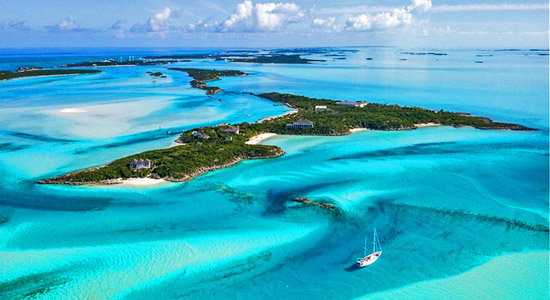
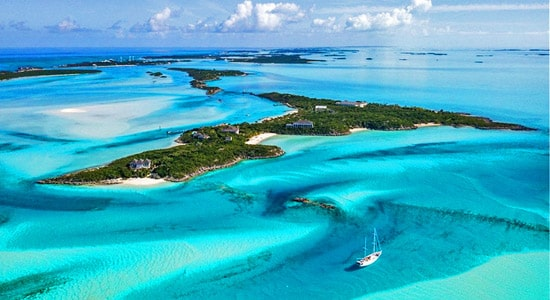
compressed asset images, fixed minor ui bugs

diff --git a/src/index.tsx b/src/index.tsx
@@ -10,8 +10,6 @@ import './index.scss';
 ReactDom.render(<App/>, document.getElementById('root'));
 
 
-console.warn("when selecting an image on ios, sometimes only half of the image shows up in the actual space for the image on the website.");
-console.warn("change the dashboard password to be something more complex");
-console.warn("png file isn't compressed properly on ios, file becomes larger instead of smaller");
 
-console.warn("compress asset images");
+console.warn("change the dashboard password to be something more complex");
+console.warn("fix products page issues in edge");

diff --git a/src/App/MainSiteInterface/AboutUs/AboutUs.scss b/src/App/MainSiteInterface/AboutUs/AboutUs.scss
@@ -198,6 +198,8 @@
                         position: relative;
                         border-radius: 2rem;
                         overflow: hidden;
+                        
+                        // because of border radius issues in safari
                         will-change: transform;
                         
                         border: 1rem solid colors(light-gray-bg);

diff --git a/src/App/MainSiteInterface/Products/MainContent/ProductItemsGrid/ProductItemsGrid.scss b/src/App/MainSiteInterface/Products/MainContent/ProductItemsGrid/ProductItemsGrid.scss
@@ -105,7 +105,8 @@
                         position: relative;
                         overflow: hidden;
 
-                        
+                        // because of border radius issues in safari
+                        will-change: transform;
 
                         > .ProductItemImageView{
                             @include configureTransition(transform);
